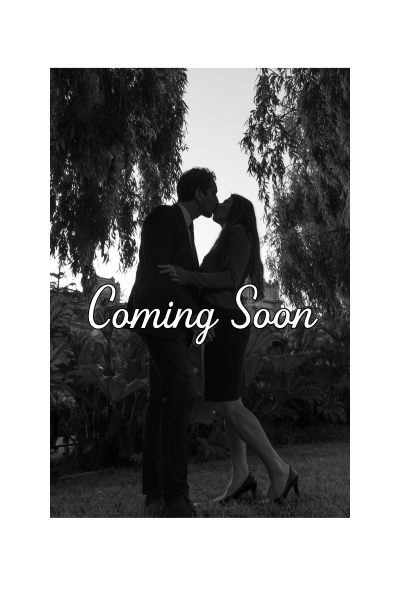
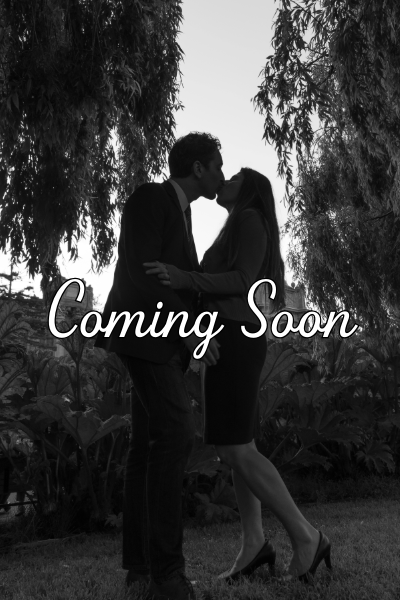
added style sheet

diff --git a/index.html b/index.html
@@ -1,14 +1,15 @@
 <!DOCTYPE html>
 
 <html lang="en">
-    <head>
-    <meta charset="utf-8">
+<head>
+    <meta charset="UTF-8">
+    <meta name="viewport" content="width=device-width, initial-scale=1.0">
     <title>Landing Page</title>
+    <link rel="stylesheet" href="styles.css">
+</head>
     </head>
-
+        
     <body>    
-        <div class="container">
-            <img class="img-fluid" src="coming_soon.png" alt="man and woman kiss with text saying coming soon">
-        </div>
+            <img src="coming_soon.png" alt="man and woman kiss with text saying coming soon">
     </body>
     </html>

diff --git a/styles.css b/styles.css
@@ -1,0 +1,16 @@
+html, body {
+    height: 100%;
+    margin: 0;
+}
+
+body {
+    display: flex;
+    justify-content: center; /* Horizontal centering */
+    align-items: center;     /* Vertical centering */
+    background-color: #fff;  /* Optional background color */
+}
+
+img {
+    max-width: 100%;         /* Ensures responsive scaling */
+    height: auto;
+}
